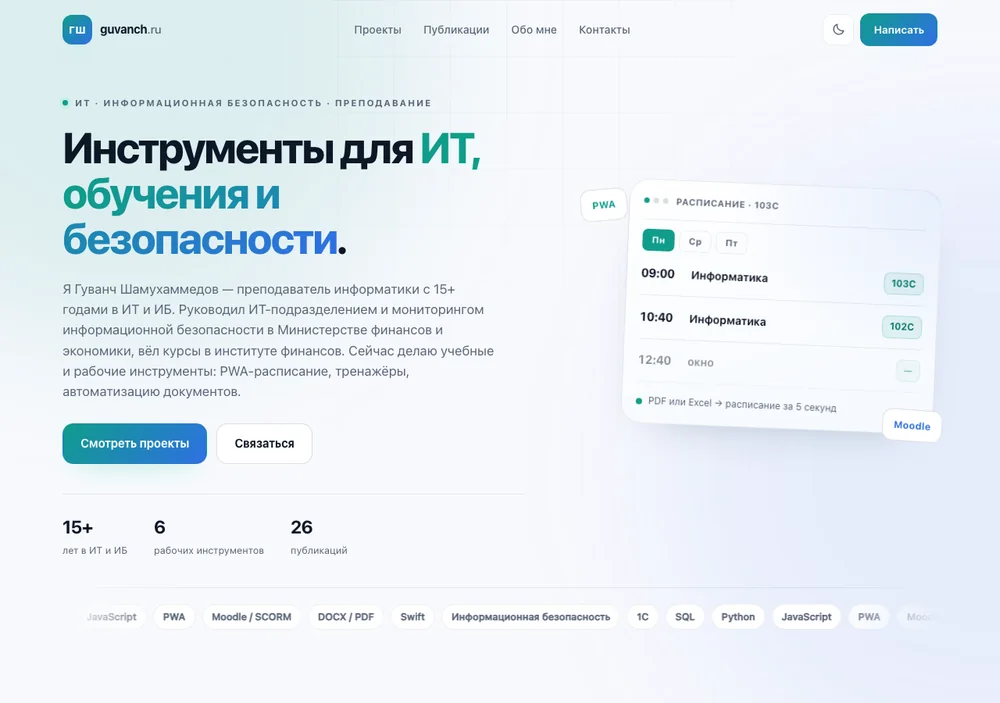
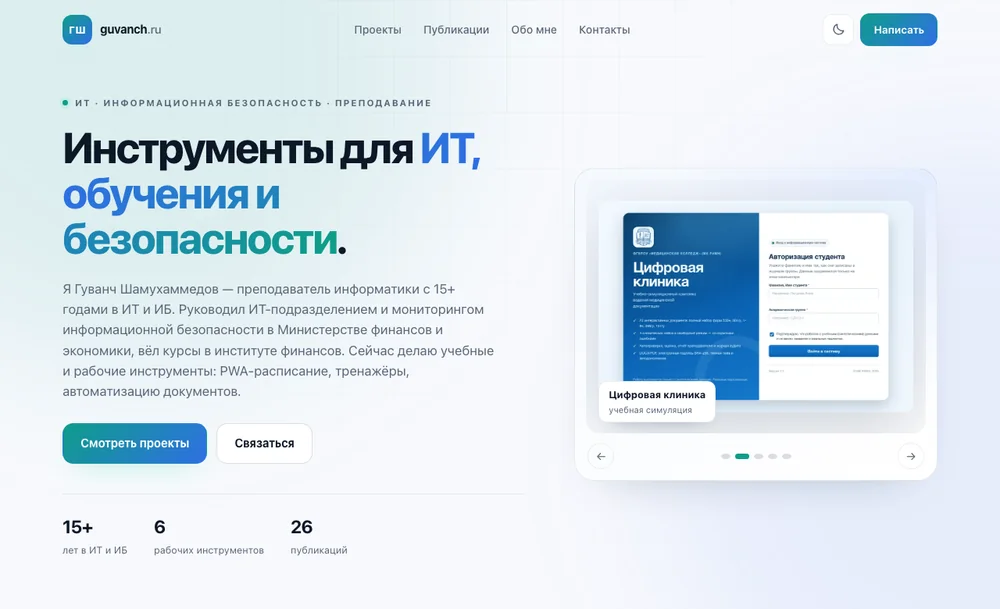
v5: карусель проектов в герое, карточка «Цифровая клиника», кейс клиники

diff --git a/index.html b/index.html
@@ -105,38 +105,37 @@
         </ul>
       </div>
 
-      <div class="hero-visual" data-reveal aria-hidden="true">
-        <div class="mock">
-          <div class="mock-top">
-            <span class="mock-dots"><i></i><i></i><i></i></span>
-            <span>Расписание · 103С</span>
+      <div class="hero-visual" data-reveal>
+        <div class="carousel" id="carousel" aria-roledescription="карусель" aria-label="Последние проекты">
+          <div class="carousel-stage">
+            <figure class="slide is-active">
+              <img src="assets/projects/schedule-cover.webp" alt="Экран приложения «Расписание»">
+              <figcaption><b>Расписание</b><span>PWA и iOS</span></figcaption>
+            </figure>
+            <figure class="slide">
+              <img src="assets/projects/clinic.webp" alt="Цифровая клиника: вход в систему" loading="lazy">
+              <figcaption><b>Цифровая клиника</b><span>учебная симуляция</span></figcaption>
+            </figure>
+            <figure class="slide">
+              <img src="assets/projects/mis.webp" alt="Тренажёр МИС–ЛИС" loading="lazy">
+              <figcaption><b>МИС–ЛИС</b><span>цифровая лаборатория</span></figcaption>
+            </figure>
+            <figure class="slide">
+              <img src="assets/projects/trainers.webp" alt="Тренажёр «Стационар»" loading="lazy">
+              <figcaption><b>Тренажёры</b><span>SCORM и HVP</span></figcaption>
+            </figure>
+            <figure class="slide">
+              <img src="assets/projects/site.webp" alt="Этот сайт" loading="lazy">
+              <figcaption><b>Веб-сервисы</b><span>сайт и инфраструктура</span></figcaption>
+            </figure>
           </div>
-          <div class="mock-tabs" role="tablist" aria-label="День недели">
-            <button class="mock-tab is-active" type="button" role="tab" aria-selected="true" data-day="mon">Пн</button>
-            <button class="mock-tab" type="button" role="tab" aria-selected="false" data-day="wed">Ср</button>
-            <button class="mock-tab" type="button" role="tab" aria-selected="false" data-day="fri">Пт</button>
+          <div class="carousel-bar">
+            <button class="carousel-arrow" type="button" data-dir="-1" aria-label="Предыдущий проект">←</button>
+            <div class="carousel-dots" id="carousel-dots" role="tablist" aria-label="Слайды"></div>
+            <button class="carousel-arrow" type="button" data-dir="1" aria-label="Следующий проект">→</button>
           </div>
-          <div class="mock-row">
-            <span class="mock-time">09:00</span>
-            <span class="mock-subject">Информатика</span>
-            <span class="mock-badge">103С</span>
-          </div>
-          <div class="mock-row">
-            <span class="mock-time">10:40</span>
-            <span class="mock-subject">Информатика</span>
-            <span class="mock-badge">102С</span>
-          </div>
-          <div class="mock-row is-muted">
-            <span class="mock-time">12:40</span>
-            <span class="mock-subject">окно</span>
-            <span class="mock-badge">—</span>
-          </div>
-          <div class="mock-footer"><span class="pulse"></span> PDF или Excel → расписание за 5 секунд</div>
         </div>
-        <div class="float-card float-a">PWA</div>
-        <div class="float-card float-b">Moodle</div>
       </div>
-    </div>
 
     <div class="container stack" data-reveal>
       <div class="stack-track" id="stack-track">
@@ -158,7 +157,6 @@
         <button class="filter is-active" type="button" data-filter="all" aria-pressed="true">Все</button>
         <button class="filter" type="button" data-filter="edu" aria-pressed="false">Учебные</button>
         <button class="filter" type="button" data-filter="web" aria-pressed="false">Веб и PWA</button>
-        <button class="filter" type="button" data-filter="sec" aria-pressed="false">ИБ</button>
         <button class="filter" type="button" data-filter="res" aria-pressed="false">Исследования</button>
       </div>
 
@@ -218,16 +216,16 @@
           <div class="project-art art-web has-shot" aria-hidden="true"><img src="assets/projects/site.webp" alt="Этот сайт на десктопе" loading="lazy" width="1000" height="703"></div>
         </article>
 
-        <article data-cat="sec" class="project" data-reveal>
+        <article data-cat="edu" class="project" data-reveal>
           <div class="project-body">
-            <div class="project-top"><span class="tag tag-accent">ИБ</span><span class="tag">152-ФЗ</span><span class="tag">Аудит</span></div>
-            <h3>Информационная безопасность</h3>
-            <p>Национальный регламент защиты персональных данных в образовании, политики доступа,
-              мониторинг инцидентов и обучение сотрудников.</p>
-            <p class="result"><span class="result-dot"></span> Регламент разработан и утверждён</p>
-            <div class="project-links"><a class="link-arrow" href="#contact">Обсудить аудит <span>→</span></a><a class="case-btn" href="cases/sec.html">Подробнее</a></div>
+            <div class="project-top"><span class="tag tag-accent">Симуляция</span><span class="tag">HTML / JS</span><span class="tag">DOCX / PDF</span></div>
+            <h3>Цифровая клиника МК РАМН</h3>
+            <p>Учебно-симуляционный комплекс: 23 медицинских документа, клинические кейсы, автопроверка,
+              электронная подпись и журнал аудита.</p>
+            <p class="result"><span class="result-dot"></span> 23 документа · 4 кейса · подпись SHA-256</p>
+            <div class="project-links"><a class="link-arrow" href="#contact">Обсудить внедрение <span>→</span></a><a class="case-btn" href="cases/clinic.html">Подробнее</a></div>
           </div>
-          <div class="project-art art-sec" aria-hidden="true"><span>ИБ</span></div>
+          <div class="project-art art-clinic" aria-hidden="true"><img src="assets/projects/clinic-emblem.png" alt="" loading="lazy"></div>
         </article>
 
         <article data-cat="edu web" class="project project-wide project-compact" data-reveal>

diff --git a/cases/clinic.html b/cases/clinic.html
@@ -1,0 +1,78 @@
+<!doctype html>
+<html lang="ru" data-theme="light">
+<head>
+<meta charset="utf-8">
+<meta name="viewport" content="width=device-width, initial-scale=1">
+<title>Цифровая клиника МК РАМН — кейс · Гуванч Шамухаммедов</title>
+<meta name="description" content="Учебно-симуляционный комплекс: 23 медицинских документа, клинические кейсы, автопроверка и электронная подпись.">
+<link rel="canonical" href="https://guvanch.ru/cases/clinic.html">
+<meta name="theme-color" content="#f7f8fc">
+<link rel="icon" href="../assets/favicon.svg" type="image/svg+xml">
+<link rel="stylesheet" href="../css/style.css">
+</head>
+<body class="case-page">
+<header class="case-top">
+  <div class="container case-top-inner">
+    <a class="case-back" href="../index.html#projects">← Все проекты</a>
+    <a class="logo" href="../index.html" aria-label="На главную"><span class="logo-mark">ГШ</span><span class="logo-text">guvanch<span>.ru</span></span></a>
+  </div>
+</header>
+
+<main>
+  <section class="case-hero">
+    <div class="container">
+      <p class="eyebrow">Кейс · Учебная симуляция</p>
+      <h1>Цифровая клиника МК РАМН</h1>
+      <p class="case-lead">Учебно-симуляционный комплекс: 23 медицинских документа, клинические кейсы, автопроверка и электронная подпись.</p>
+      <ul class="case-meta">
+        <li><span>Роль</span>Разработка и внедрение</li>
+        <li><span>Год</span>2026</li>
+        <li><span>Стек</span>HTML / JS, DOCX / PDF, SHA-256</li>
+      </ul>
+    </div>
+  </section>
+
+    <section class="container case-cover">
+    <img src="../assets/projects/clinic.webp" alt="Цифровая клиника МК РАМН" loading="lazy">
+  </section>
+
+
+  <section class="case-body">
+    <div class="container case-cols">
+      <div>
+        <h2>Задача</h2>
+        <p>Студентам нужно отрабатывать ведение медицинской документации без доступа к реальным данным пациентов — и получать проверяемую оценку.</p>
+      </div>
+      <div>
+        <h2>Что сделано</h2>
+        <ul class="case-list"><li>23 интерактивных документа: 530н, 004/у, 184, 366/у, 157/у и другие.</li><li>4 клинических кейса и свободный режим со скрытыми ошибками.</li><li>Автопроверка, оценка, отчёт преподавателю и журнал аудита.</li><li>DOCX и PDF, электронная подпись SHA-256, тёмная тема, автозаполнение.</li></ul>
+      </div>
+    </div>
+    <div class="container">
+      <h2 class="case-result-title">Результат</h2>
+      <ul class="case-numbers"><li><b>23</b><span>интерактивных документа</span></li><li><b>4</b><span>клинических кейса</span></li><li><b>SHA-256</b><span>электронная подпись</span></li></ul>
+    </div>
+  </section>
+
+  <section class="case-cta">
+    <div class="container case-cta-inner">
+      <div>
+        <h2>Похожая задача?</h2>
+        <p>Расскажите, что нужно сделать — предложу решение и оценку.</p>
+      </div>
+      <a class="btn btn-primary" href="mailto:glebe.ru@yandex.ru?subject=Проект: Цифровая клиника">Написать</a>
+    </div>
+  </section>
+</main>
+
+<footer class="footer">
+  <div class="container footer-inner">
+    <div class="footer-brand">
+      <span class="logo-mark">ГШ</span>
+      <div><b>Гуванч Шамухаммедов</b><span>ИТ · информационная безопасность · преподавание</span></div>
+    </div>
+    <p class="footer-note">© 2026 · guvanch.ru</p>
+  </div>
+</footer>
+</body>
+</html>

diff --git a/css/style.css b/css/style.css
@@ -1487,3 +1487,92 @@ html[data-theme="light"] .contact-card {
 
 .mini-exp li div { color: var(--muted); }
 .mini-exp li div b { color: var(--text); }
+
+/* ---------- карусель проектов в герое ---------- */
+
+.carousel {
+  width: 100%;
+  padding: 14px;
+  border-radius: 26px;
+  border: 1px solid var(--line);
+  background:
+    radial-gradient(120% 120% at 100% 0%, rgba(122, 162, 255, 0.16), transparent 60%),
+    linear-gradient(160deg, var(--surface-2), var(--surface));
+  box-shadow: var(--shadow);
+}
+.carousel-stage {
+  position: relative;
+  aspect-ratio: 4 / 3;
+  overflow: hidden;
+  border-radius: 18px;
+}
+.slide {
+  position: absolute;
+  inset: 0;
+  margin: 0;
+  display: grid;
+  place-items: center;
+  padding: 16px;
+  opacity: 0;
+  transform: scale(1.015);
+  transition: opacity .5s ease, transform .5s ease;
+  pointer-events: none;
+}
+.slide.is-active { opacity: 1; transform: none; pointer-events: auto; }
+.slide img {
+  max-width: 100%;
+  max-height: 100%;
+  width: auto;
+  height: auto;
+  object-fit: contain;
+  border-radius: 12px;
+  filter: drop-shadow(0 24px 44px rgba(13, 35, 70, 0.2));
+}
+.slide figcaption {
+  position: absolute;
+  left: 16px;
+  bottom: 14px;
+  display: flex;
+  flex-direction: column;
+  gap: 1px;
+  padding: 7px 12px;
+  border-radius: 10px;
+  border: 1px solid var(--line);
+  background: var(--surface);
+  box-shadow: 0 10px 24px -18px rgba(13, 35, 70, .5);
+}
+.slide figcaption b { font-size: 12.5px; font-weight: 700; color: var(--text); }
+.slide figcaption span { font-size: 11px; color: var(--muted); }
+
+.carousel-bar { display: flex; align-items: center; justify-content: space-between; gap: 10px; padding: 12px 2px 0; }
+.carousel-arrow {
+  width: 34px; height: 34px; border-radius: 50%;
+  border: 1px solid var(--line); color: var(--muted);
+  display: grid; place-items: center; font-size: 15px; line-height: 1;
+  transition: color .18s ease, border-color .18s ease;
+}
+.carousel-arrow:hover { color: var(--accent); border-color: var(--accent); }
+.carousel-dots { display: flex; align-items: center; gap: 6px; }
+.carousel-dot {
+  width: 7px; height: 7px; border-radius: 50%;
+  background: var(--line-strong);
+  transition: width .2s ease, background .2s ease;
+}
+.carousel-dot.is-active { width: 18px; border-radius: 4px; background: var(--accent); }
+
+/* эмблема «Цифровой клиники» */
+.art-clinic {
+  background:
+    radial-gradient(80% 80% at 50% 35%, rgba(47, 111, 228, 0.28), transparent 65%),
+    linear-gradient(160deg, rgba(47, 111, 228, 0.16), rgba(47, 111, 228, 0.03));
+  border-top: 1px solid var(--line);
+}
+.art-clinic img {
+  width: 118px;
+  height: auto;
+  filter: drop-shadow(0 18px 34px rgba(13, 35, 70, 0.28));
+}
+
+@media (max-width: 980px) {
+  .carousel-stage { aspect-ratio: 1 / 1; }
+}

diff --git a/js/main.js b/js/main.js
@@ -434,3 +434,79 @@
     });
   });
 })();
+
+/* ---------- карусель проектов ---------- */
+(function () {
+  'use strict';
+  var root = document.getElementById('carousel');
+  if (!root) return;
+
+  var slides = Array.prototype.slice.call(root.querySelectorAll('.slide'));
+  var dotsBox = document.getElementById('carousel-dots');
+  var arrows = root.querySelectorAll('.carousel-arrow');
+  var reduce = window.matchMedia('(prefers-reduced-motion: reduce)').matches;
+  var index = 0;
+  var timer = null;
+
+  var dots = slides.map(function (_, i) {
+    var b = document.createElement('button');
+    b.className = 'carousel-dot' + (i === 0 ? ' is-active' : '');
+    b.type = 'button';
+    b.setAttribute('role', 'tab');
+    b.setAttribute('aria-label', 'Проект ' + (i + 1));
+    b.setAttribute('aria-selected', i === 0 ? 'true' : 'false');
+    b.addEventListener('click', function () { show(i); restart(); });
+    dotsBox.appendChild(b);
+    return b;
+  });
+
+  function show(i) {
+    index = (i + slides.length) % slides.length;
+    slides.forEach(function (s, n) { s.classList.toggle('is-active', n === index); });
+    dots.forEach(function (d, n) {
+      d.classList.toggle('is-active', n === index);
+      d.setAttribute('aria-selected', n === index ? 'true' : 'false');
+    });
+  }
+
+  function next(step) { show(index + step); }
+
+  arrows.forEach(function (btn) {
+    btn.addEventListener('click', function () {
+      next(parseInt(btn.getAttribute('data-dir'), 10));
+      restart();
+    });
+  });
+
+  function start() {
+    if (reduce || timer) return;
+    timer = setInterval(function () { next(1); }, 6000);
+  }
+  function stop() { clearInterval(timer); timer = null; }
+  function restart() { stop(); start(); }
+
+  root.addEventListener('mouseenter', stop);
+  root.addEventListener('mouseleave', start);
+  root.addEventListener('focusin', stop);
+  root.addEventListener('focusout', start);
+
+  var startX = null;
+  root.addEventListener('touchstart', function (e) {
+    startX = e.touches[0].clientX;
+  }, { passive: true });
+  root.addEventListener('touchend', function (e) {
+    if (startX === null) return;
+    var dx = e.changedTouches[0].clientX - startX;
+    if (Math.abs(dx) > 40) { next(dx < 0 ? 1 : -1); restart(); }
+    startX = null;
+  }, { passive: true });
+
+  root.setAttribute('tabindex', '0');
+  root.addEventListener('keydown', function (e) {
+    if (e.key === 'ArrowLeft') { next(-1); restart(); }
+    if (e.key === 'ArrowRight') { next(1); restart(); }
+  });
+
+  show(0);
+  start();
+})();
